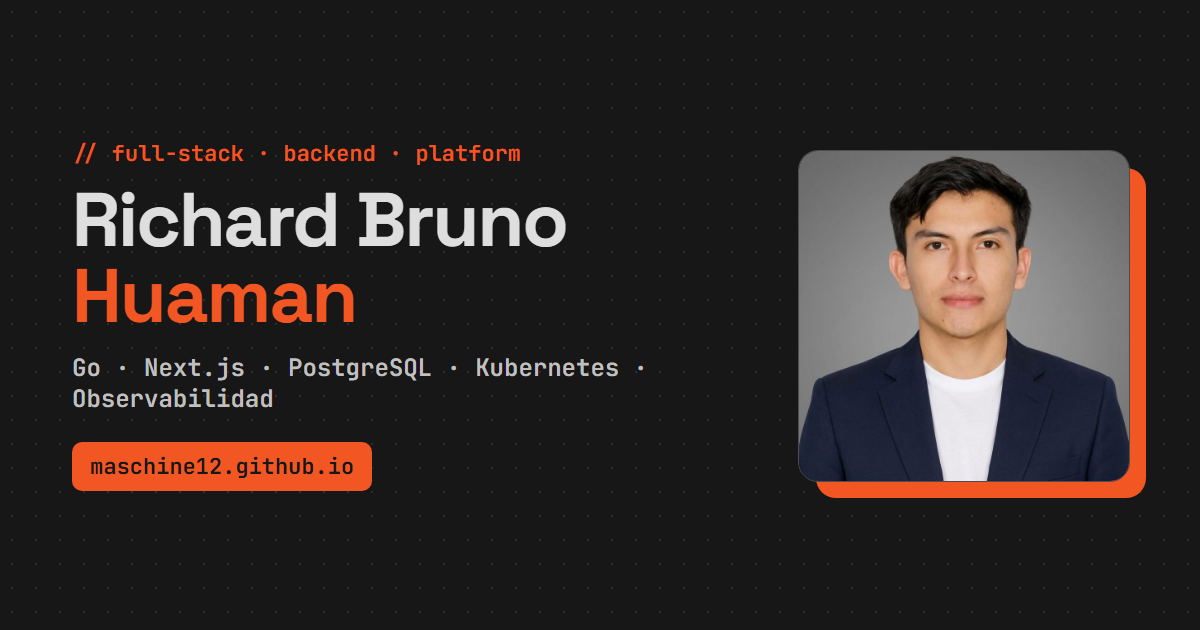
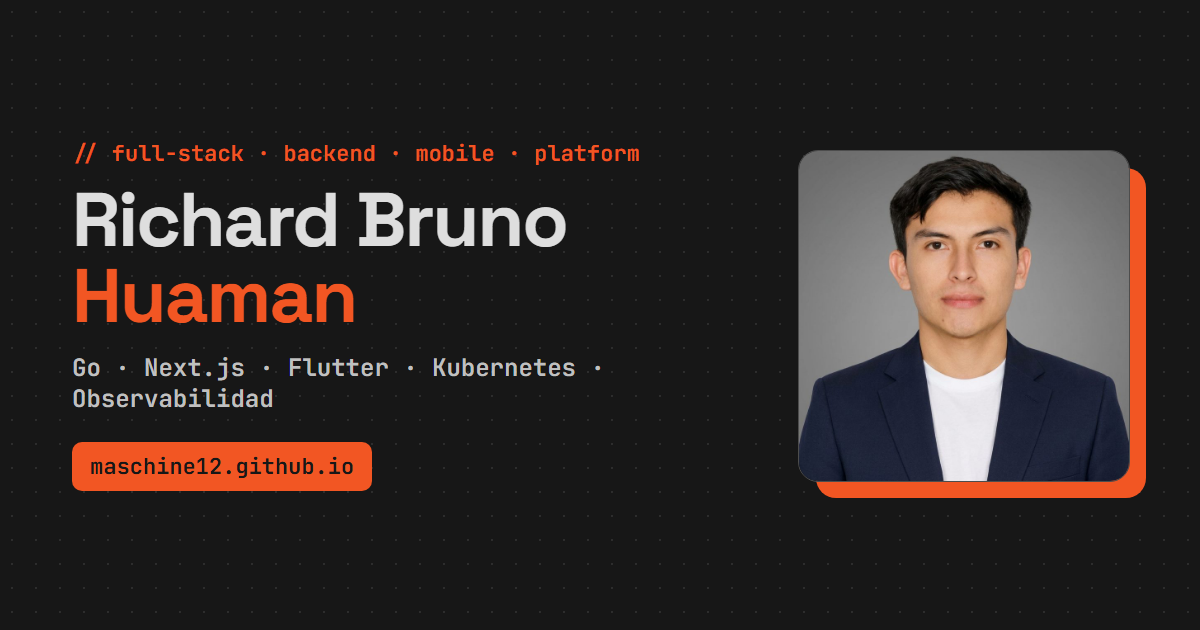
feat: highlight Flutter mobile apps (SISCORE, Supervision)

Changed region(s): [[0.3392, 0.2111, 0.555, 0.2714], [0.2467, 0.573, 0.5242, 0.6032]]

diff --git a/index.html b/index.html
@@ -4,8 +4,8 @@
 <meta charset="utf-8">
 <meta name="viewport" content="width=device-width, initial-scale=1">
 <title>Richard Bruno Huaman | Desarrollador Full-Stack y Backend (Go, Next.js, Kubernetes) · Perú y LATAM</title>
-<meta name="description" content="Desarrollador Full-Stack y Backend en Perú: Go, Next.js, PostgreSQL, Kubernetes (k3s), Docker, Kafka y observabilidad con Prometheus y Grafana. Disponible para empresas de Perú y Latinoamérica, presencial, híbrido o remoto.">
-<meta name="keywords" content="desarrollador full stack Perú, desarrollador backend Go, golang developer LATAM, Next.js, Kubernetes, DevOps Perú, observabilidad Prometheus Grafana, desarrollador remoto Latinoamérica, Lima, Ayacucho">
+<meta name="description" content="Desarrollador Full-Stack, Backend y Móvil en Perú: Go, Next.js, Flutter, PostgreSQL, Kubernetes (k3s), Docker, Kafka y observabilidad con Prometheus y Grafana. Disponible para empresas de Perú y Latinoamérica, presencial, híbrido o remoto.">
+<meta name="keywords" content="desarrollador full stack Perú, desarrollador backend Go, desarrollador Flutter, desarrollador móvil Perú, golang developer LATAM, Next.js, Kubernetes, DevOps Perú, observabilidad Prometheus Grafana, desarrollador remoto Latinoamérica, Lima, Ayacucho">
 <meta name="author" content="Richard Bruno Huaman Peralta">
 <meta name="robots" content="index, follow, max-image-preview:large">
 <meta name="theme-color" content="#171717">
@@ -25,7 +25,7 @@
 <meta property="og:locale:alternate" content="es_CL">
 <meta property="og:url" content="https://maschine12.github.io/">
 <meta property="og:title" content="Richard Bruno Huaman | Full-Stack y Backend Developer · Go · Next.js · Kubernetes">
-<meta property="og:description" content="Sistemas en producción de punta a punta: backend en Go, frontend en Next.js, Kubernetes y observabilidad. Disponible para Perú y LATAM.">
+<meta property="og:description" content="Sistemas en producción de punta a punta: backend en Go, frontend en Next.js, apps en Flutter, Kubernetes y observabilidad. Disponible para Perú y LATAM.">
 <meta property="og:image" content="https://maschine12.github.io/assets/og-card.png">
 <meta property="og:image:width" content="1200">
 <meta property="og:image:height" content="630">
@@ -34,7 +34,7 @@
 <meta property="profile:last_name" content="Huaman Peralta">
 <meta name="twitter:card" content="summary_large_image">
 <meta name="twitter:title" content="Richard Bruno Huaman | Full-Stack y Backend Developer">
-<meta name="twitter:description" content="Go · Next.js · PostgreSQL · Kubernetes · Observabilidad. Disponible para Perú y LATAM.">
+<meta name="twitter:description" content="Go · Next.js · Flutter · Kubernetes · Observabilidad. Disponible para Perú y LATAM.">
 <meta name="twitter:image" content="https://maschine12.github.io/assets/og-card.png">
 <script type="application/ld+json">
 {
@@ -46,7 +46,7 @@
     "@type": "Person",
     "name": "Richard Bruno Huaman Peralta",
     "alternateName": "Richard Bruno Huaman",
-    "jobTitle": "Desarrollador Full-Stack y Backend",
+    "jobTitle": "Desarrollador Full-Stack, Backend y Móvil",
     "description": "Desarrollador Full-Stack y Backend: Go, Next.js, PostgreSQL, Kubernetes y observabilidad.",
     "image": "https://maschine12.github.io/assets/foto-richard.jpg",
     "url": "https://maschine12.github.io/",
@@ -78,10 +78,10 @@
   </nav>
   <div class="hero-body">
     <div class="hero-text">
-      <p class="kicker">// full-stack · backend · platform</p>
+      <p class="kicker">// full-stack · backend · mobile · platform</p>
       <h1>Richard Bruno <span class="accent">Huaman</span></h1>
-      <p class="role">Go · Next.js · PostgreSQL · Kubernetes · Observabilidad</p>
-      <p class="lead">Construyo y opero <b>sistemas en producción de punta a punta</b>: backend en Go, frontend en Next.js, infraestructura con Kubernetes y monitoreo. Mi experiencia viene de sistemas críticos del sector público (obras, asistencia biométrica multisede, gestión documental con firma digital y SSO) y busco aportar en <b>empresas privadas o públicas</b>.</p>
+      <p class="role">Go · Next.js · Flutter · PostgreSQL · Kubernetes · Observabilidad</p>
+      <p class="lead">Construyo y opero <b>sistemas en producción de punta a punta</b>: backend en Go, frontend en Next.js, <b>apps móviles en Flutter</b>, infraestructura con Kubernetes y monitoreo. Mi experiencia viene de sistemas críticos del sector público (obras, asistencia biométrica multisede, gestión documental con firma digital y SSO) y busco aportar en <b>empresas privadas o públicas</b>.</p>
       <div class="cta">
         <a class="btn primary" href="assets/CV-Richard-Bruno-Huaman-ES.pdf" download>Descargar CV</a>
         <a class="btn" href="assets/CV-Richard-Bruno-Huaman-EN.pdf" download>CV (EN)</a>
@@ -103,13 +103,13 @@
   <div class="grid">
     <article class="card">
       <div class="card-head"><span class="ico"><i data-lucide="hard-hat"></i></span><h3>Sistema de Supervisión</h3><a class="visit" href="https://supervision.regionayacucho.gob.pe/" target="_blank" rel="noopener">Ver sitio<i data-lucide="external-link"></i></a></div>
-      <p>Plataforma de seguimiento de obras públicas de 11 provincias: mapa georreferenciado con relieve 3D, expediente técnico, dashboards de avance, API de datos abiertos y app móvil para la asistencia del personal de obra. <b>Lideré su desarrollo.</b></p>
+      <p>Plataforma de seguimiento de obras públicas de 11 provincias: mapa georreferenciado con relieve 3D, expediente técnico, dashboards de avance y API de datos abiertos. <b>App móvil en Flutter</b> para supervisores y personal de obra: mapas Mapbox, GPS, fotos de avance desde campo y asistencia, con inicio de sesión SSO. <b>Lideré su desarrollo.</b></p>
       <ul class="tech"><li><img data-slug="go" src="https://cdn.simpleicons.org/go/DEDEDE" alt="" width="18" height="18" loading="lazy" onerror="this.remove()">Go</li><li><img data-slug="nextdotjs" src="https://cdn.simpleicons.org/nextdotjs/DEDEDE" alt="" width="18" height="18" loading="lazy" onerror="this.remove()">Next.js</li><li><img data-slug="flutter" src="https://cdn.simpleicons.org/flutter/DEDEDE" alt="" width="18" height="18" loading="lazy" onerror="this.remove()">Flutter</li><li><img data-slug="postgresql" src="https://cdn.simpleicons.org/postgresql/DEDEDE" alt="" width="18" height="18" loading="lazy" onerror="this.remove()">PostgreSQL</li><li><img data-slug="minio" src="https://cdn.simpleicons.org/minio/DEDEDE" alt="" width="18" height="18" loading="lazy" onerror="this.remove()">MinIO</li><li><img data-slug="apachekafka" src="https://cdn.simpleicons.org/apachekafka/DEDEDE" alt="" width="18" height="18" loading="lazy" onerror="this.remove()">Kafka</li><li><img data-slug="docker" src="https://cdn.simpleicons.org/docker/DEDEDE" alt="" width="18" height="18" loading="lazy" onerror="this.remove()">Docker</li><li><img data-slug="traefikproxy" src="https://cdn.simpleicons.org/traefikproxy/DEDEDE" alt="" width="18" height="18" loading="lazy" onerror="this.remove()">Traefik</li><li><img data-slug="nginx" src="https://cdn.simpleicons.org/nginx/DEDEDE" alt="" width="18" height="18" loading="lazy" onerror="this.remove()">Nginx</li></ul>
     </article>
     <article class="card">
       <div class="card-head"><span class="ico"><i data-lucide="fingerprint"></i></span><h3>SISCORE</h3><a class="visit" href="https://siscore.regionayacucho.gob.pe/" target="_blank" rel="noopener">Vía intranet (SSO)<i data-lucide="external-link"></i></a></div>
-      <p>Asistencia biométrica multisede. Implementé en Go el protocolo de los relojes ZKTeco (iClock/ADMS) e hice ingeniería inversa de la API de BioTime para sincronizar marcaciones automáticamente y recuperar las de equipos desconectados. Base de mi tesis.</p>
-      <ul class="tech"><li><img data-slug="go" src="https://cdn.simpleicons.org/go/DEDEDE" alt="" width="18" height="18" loading="lazy" onerror="this.remove()">Go</li><li><img data-slug="nextdotjs" src="https://cdn.simpleicons.org/nextdotjs/DEDEDE" alt="" width="18" height="18" loading="lazy" onerror="this.remove()">Next.js</li><li><img data-slug="postgresql" src="https://cdn.simpleicons.org/postgresql/DEDEDE" alt="" width="18" height="18" loading="lazy" onerror="this.remove()">PostgreSQL</li><li><img data-slug="docker" src="https://cdn.simpleicons.org/docker/DEDEDE" alt="" width="18" height="18" loading="lazy" onerror="this.remove()">Docker</li><li><img data-slug="traefikproxy" src="https://cdn.simpleicons.org/traefikproxy/DEDEDE" alt="" width="18" height="18" loading="lazy" onerror="this.remove()">Traefik</li><li><img data-slug="nginx" src="https://cdn.simpleicons.org/nginx/DEDEDE" alt="" width="18" height="18" loading="lazy" onerror="this.remove()">Nginx</li></ul>
+      <p>Asistencia biométrica multisede. Implementé en Go el protocolo de los relojes ZKTeco (iClock/ADMS) e hice ingeniería inversa de la API de BioTime para sincronizar marcaciones y recuperar las de equipos desconectados. <b>App móvil en Flutter</b> para teletrabajo: marcación con foto y geolocalización, login SSO con Zitadel y reportes en PDF. Base de mi tesis.</p>
+      <ul class="tech"><li><img data-slug="go" src="https://cdn.simpleicons.org/go/DEDEDE" alt="" width="18" height="18" loading="lazy" onerror="this.remove()">Go</li><li><img data-slug="nextdotjs" src="https://cdn.simpleicons.org/nextdotjs/DEDEDE" alt="" width="18" height="18" loading="lazy" onerror="this.remove()">Next.js</li><li><img data-slug="flutter" src="https://cdn.simpleicons.org/flutter/DEDEDE" alt="" width="18" height="18" loading="lazy" onerror="this.remove()">Flutter</li><li><img data-slug="postgresql" src="https://cdn.simpleicons.org/postgresql/DEDEDE" alt="" width="18" height="18" loading="lazy" onerror="this.remove()">PostgreSQL</li><li><img data-slug="docker" src="https://cdn.simpleicons.org/docker/DEDEDE" alt="" width="18" height="18" loading="lazy" onerror="this.remove()">Docker</li><li><img data-slug="traefikproxy" src="https://cdn.simpleicons.org/traefikproxy/DEDEDE" alt="" width="18" height="18" loading="lazy" onerror="this.remove()">Traefik</li><li><img data-slug="nginx" src="https://cdn.simpleicons.org/nginx/DEDEDE" alt="" width="18" height="18" loading="lazy" onerror="this.remove()">Nginx</li></ul>
     </article>
     <article class="card">
       <div class="card-head"><span class="ico"><i data-lucide="key-round"></i></span><h3>Intranet, SSO e interoperabilidad</h3><a class="visit" href="https://intranet.regionayacucho.gob.pe/" target="_blank" rel="noopener">Ver sitio<i data-lucide="external-link"></i></a></div>
